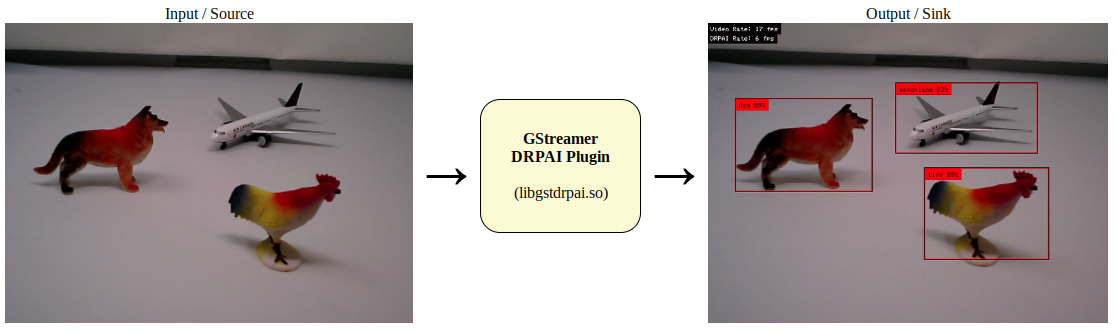
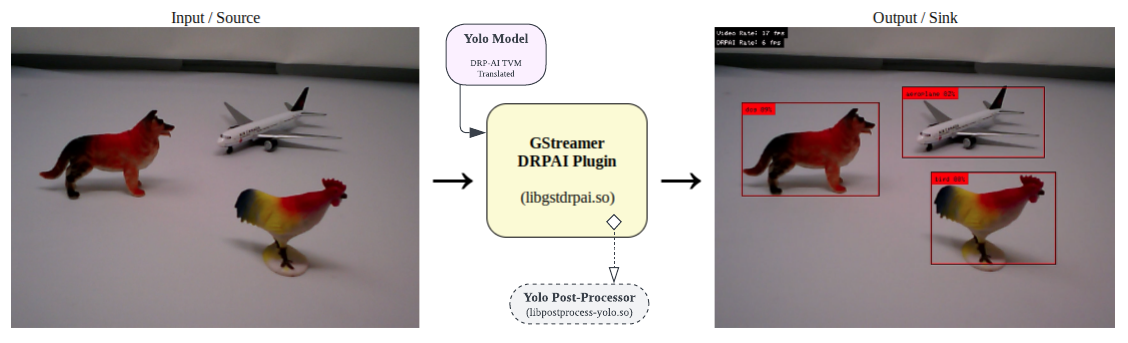
Update README.md

diff --git a/README.md b/README.md
@@ -10,19 +10,15 @@ the input image to the DRPAI hardware. After activating the hardware, it will us
 generate the output which can be read by the UDMA module. While DRPAI is running, the running thread will
 go to sleep. Of course the sleep time varies based on the size of the AI model.
 
-MistyWest team has prepared this plugin which can receive any kind of video input,
+MistyWest team has prepared this GStreamer plugin which can receive any kind of video input,
 such as a file (filesrc), a network stream (udpsrc), or a camera device (v4l2src) and outputs a video 
 with bounding boxes on inferred objects using the DRPAI. Later, this video can be linked to any kind of 
 output, such as the display (autovideosink), a network stream (udpsink), or a file (filesink).
 
 ![GStreamer DRPAI Plugin Chart](img/gst-drpai-chart.png)
 
-**Note:** At this moment, the plugin is hardcoded to YOLOV2l model. Therefore, you need to have a copy
-of the trained model ([link](models/yolov2))
-with the directory name of `yolov2` inside your working directory for the plugin to work.
-
 The plugin uses the following pad template capabilities for both **src** and **sink** which requires you
-to prepare before your DRPAI element (for example, using a `videoconvert` element):
+to prepare before the DRPAI element (for example, using a `videoconvert` element):
 
 ```
 video/x-raw
@@ -35,6 +31,7 @@ The plugin also provides you with the following parameters:
 
 | Name                  | Type                | Default | Description                                                          |
 |-----------------------|---------------------|--------:|----------------------------------------------------------------------|
+| **model**             | String              |     --- | The name of the pretrained model and the directory prefix.                                                                     |
 | **multithread**       | Boolean             |    true | Use a separate thread for object detection.                          |
 | **log-detects**       | Boolean             |   false | Print detected objects in standard output.                           |
 | **show-fps**          | Boolean             |   false | Render frame rates of video and DRPAI at the corner of the video.    |
@@ -43,6 +40,55 @@ The plugin also provides you with the following parameters:
 | **max-drpai-rate**    | Float [0 - 120]     |     120 | Force maximum DRPAI frame rate using thread sleeps.                  |
 | **smooth-video-rate** | Float [1 - 1000]    |       1 | Number of last video frame rates to average for a more smooth value. |
 | **smooth-drpai-rate** | Float [1 - 1000]    |       1 | Number of last DRPAI frame rates to average for a more smooth value. |
+
+## AI Model
+
+The plugin is implemented in a way that it can run different models. By using the `model` parameter, 
+you can switch between different DRP-AI translated models that are located in a directory with 
+the same name as the model. For example, when using the parameter `model=yolov3`, and you are running
+the command on your home directory `/home/user`, the plugin loads the TVM compiled model located in
+`/home/user/yolov3`.
+
+### Post Processor Dynamic Library
+
+Depending on the model you use, even though their input layers are the same, their output layers can be
+very different and require additional post-processing to interpret the array of floating point numbers
+to a data structure that is usable to render the bounding boxes for each inferred object. Therefore, 
+the plugin uses a shared library that needs to be included with the model and its path is mentioned in 
+the `{model}/{model}_process_params.txt` file like this:
+```
+[dynamic_library]
+libpostprocess-yolo.so
+.
+.
+.
+```
+
+#### Yolo Post-Processor Library (libpostprocess-yolo.so)
+
+The plugin already includes a post-processor library that supports `yolov2`, `yolov3`, `tinyyolov2`, 
+and `tinyyolov3` models. This post-processor library leverages many similarities between these models and
+switch its behaviour based on other parameters that are mentioned in `{model}/{model}_process_params.txt` 
+file such as the `[best_class_prediction_algorithm]` and `[anchor_divide_size]`. 
+
+The library also loads the list of all class labels in `{model}/{model}_labels.txt` and the list of all 
+box anchors in `{model}/{model}_anchors.txt`. This means these 3 files need to be manually included 
+alongside the output of DRPAI TVM translator.
+
+#### Make your own Post-Processor Library
+
+If you want to use a model that is not following the output layer format for Yolo models, you can write 
+your own post-processor library with the exact function signatures that are mentioned in 
+`src/dynamic-post-process/postprocess.h` include file. These functions are:
+```
+// Executed once at the begining and at the end
+int8_t post_process_initialize(const char model_prefix[], uint32_t output_len);
+int8_t post_process_release();
+
+// Executed after DRP-AI output is ready.
+// Generating an array of `detection` structure as defined in `src/box.h`.
+int8_t post_process_output(const float output_buf[], struct detection det[], uint8_t *det_len);
+```
 
 ## How to Build
 
@@ -76,7 +122,7 @@ You can also check if it has been built correctly with:
 ```
 gst-launch-1.0 v4l2src device=/dev/video0 \
     ! videoconvert \
-    ! drpai show-fps=true log-detects=true smooth-video-rate=30 \
+    ! drpai model=yolov3 show-fps=true log-detects=true smooth-video-rate=30 \
     ! videoconvert \
     ! autovideosink
 ```
@@ -84,7 +130,7 @@ If your camera supports the BGR format (such as the coral camera), you can modif
 `~/v4l2init.sh` and skip the first `videoconvert` element like this:
 ```
 gst-launch-1.0 v4l2src device=/dev/video0 ! video/x-raw, width=640, height=480, format=BGR \
-    ! drpai show-fps=true log-detects=true smooth-video-rate=30 \
+    ! drpai model=yolov3 show-fps=true log-detects=true smooth-video-rate=30 \
     ! videoconvert \
     ! autovideosink
 ```
@@ -101,7 +147,7 @@ add the drpai element to the `stream.sh` file like this:
 echo "Streaming to ${1} with DRPAI..."
 
 gst-launch-1.0 v4l2src device=/dev/video0 ! video/x-raw, width=640, height=480, format=BGR \
-    ! drpai show-fps=true log-detects=true smooth-video-rate=30 \
+    ! drpai model=yolov3 show-fps=true log-detects=true smooth-video-rate=30 \
     ! vspmfilter dmabuf-use=true ! video/x-raw, format=NV12 \
     ! omxh264enc control-rate=2 target-bitrate=10485760 interval_intraframes=14 periodicty-idr=2 \
     ! video/x-h264,profile=\(string\)high,level=\(string\)4.2 \
